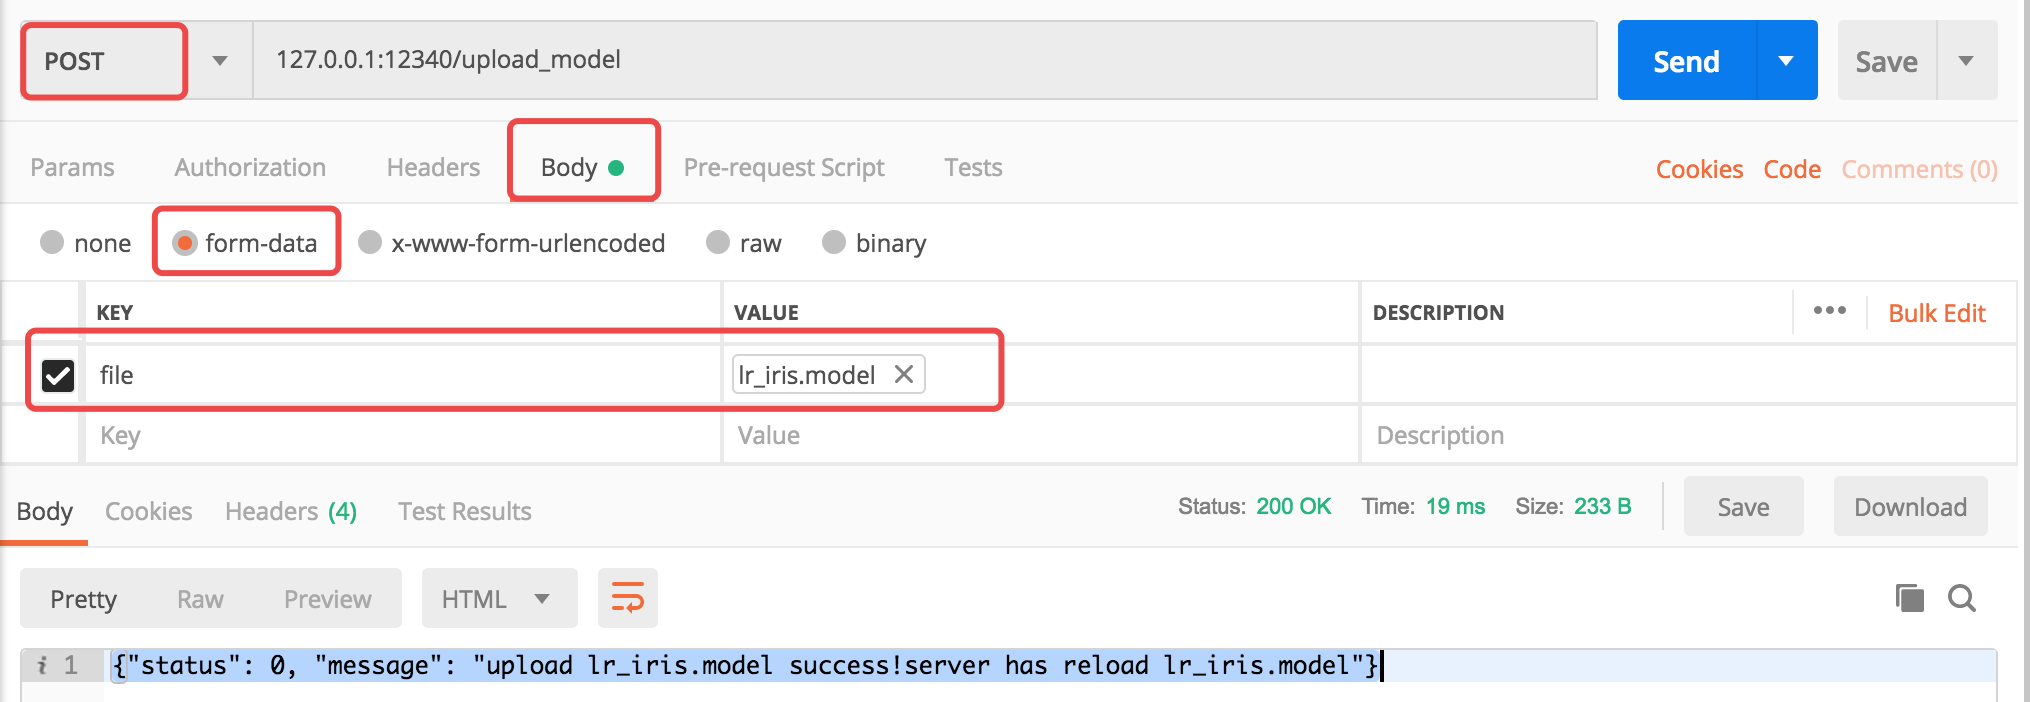
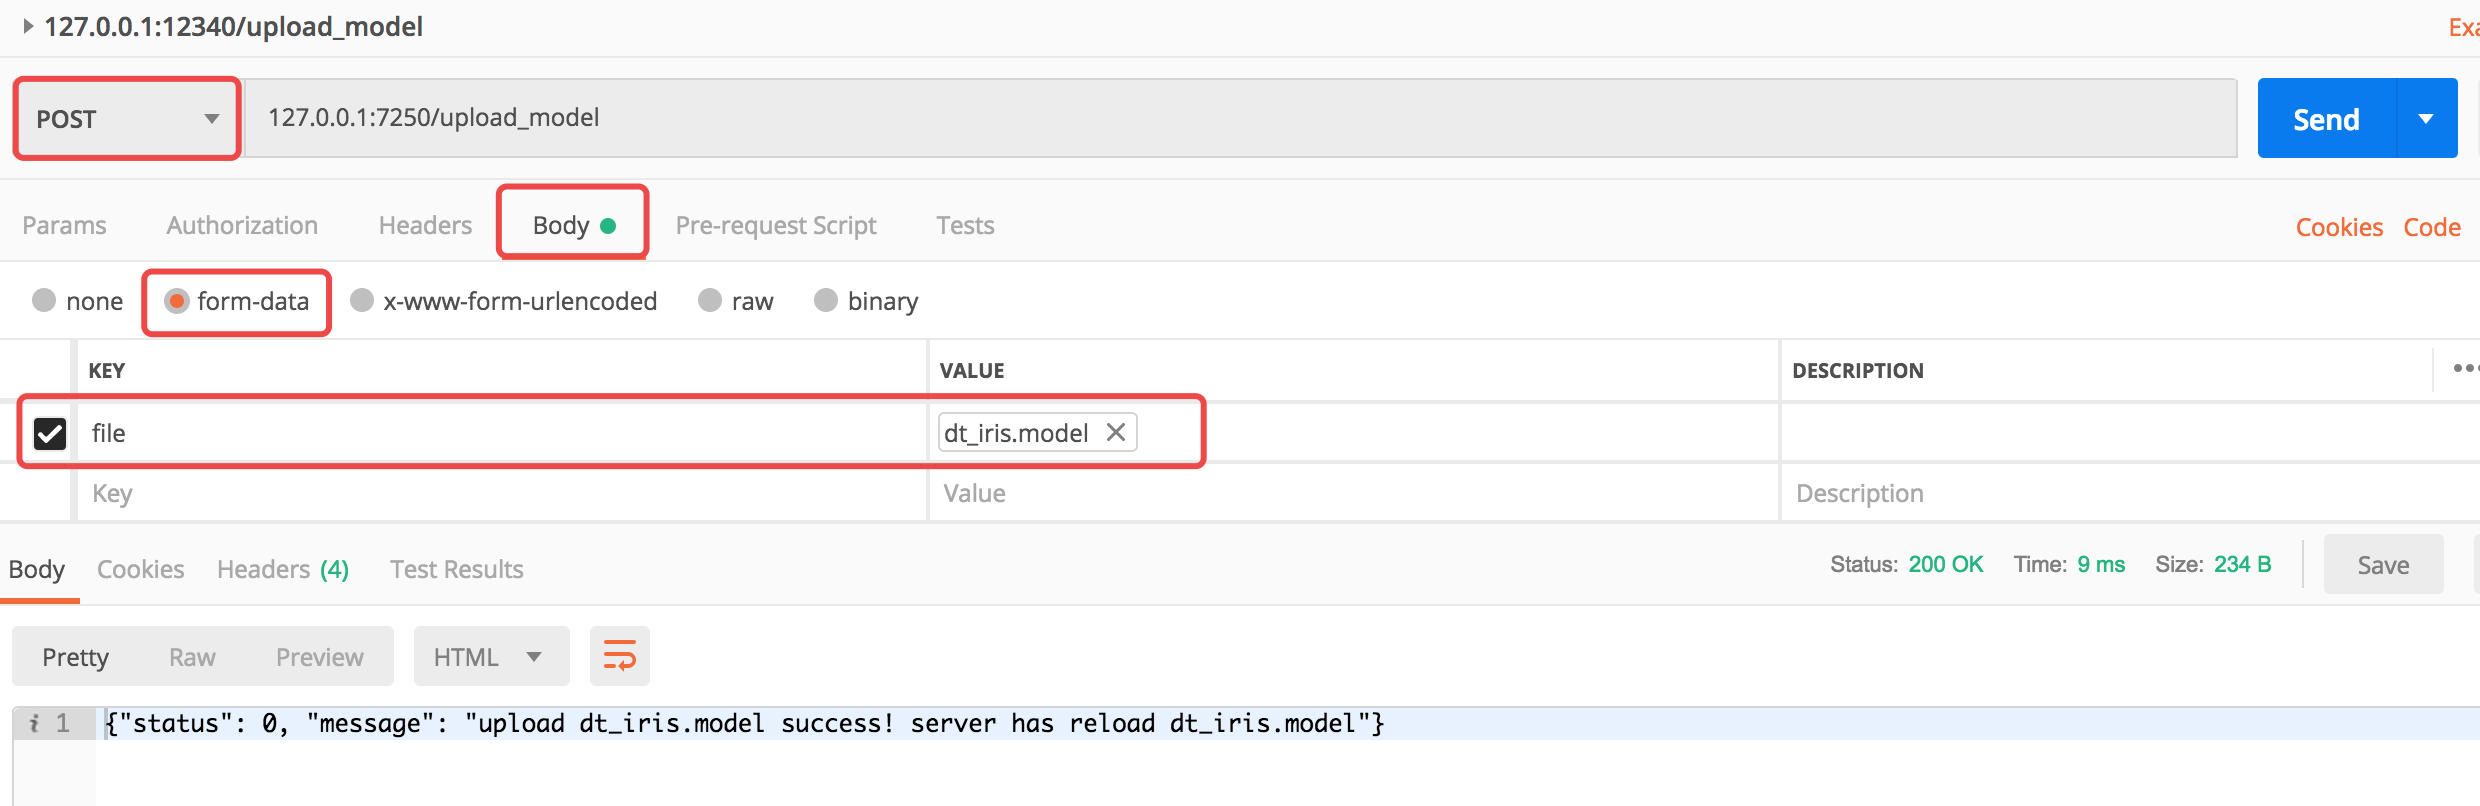
update readme.md

diff --git a/README.md b/README.md
@@ -111,7 +111,7 @@ db=0
 ### 4.1 /description
 GET请求：
 ```
-127.0.0.1:12340/description
+127.0.0.1:7250/description
 ```
 说明：返回restful API说明
 
@@ -123,7 +123,7 @@ GET请求：
 ### 4.2 /compute
 GET请求：
 ```
-127.0.0.1:12340/compute?a=1&b=2&ctype=1
+127.0.0.1:7250/compute?a=1&b=2&ctype=1
 ```
 
 说明：加减乘除操作，输入三个参数a、b、ctype。
@@ -141,7 +141,7 @@ GET请求：
 ### 4.3 /iris/lr_predict
 GET请求：
 ```
-127.0.0.1:12340/iris/lr_predict
+127.0.0.1:7250/iris/lr_predict
 ```
 
 说明：基于逻辑回归训练的模型，有4个参数，且默认为：
@@ -161,7 +161,7 @@ GET请求：
 ### 4.4 /iris/dt_predict
 GET请求：
 ```
-127.0.0.1:12340/iris/dt_predict
+127.0.0.1:7250/iris/dt_predict
 ```
 说明：基于决策树训练的模型，有4个参数，且默认为：
 ```
@@ -179,7 +179,7 @@ GET请求：
 ### 4.5 /dbtest/train_data
 GET请求：
 ```
-127.0.0.1:12340/dbtest/train_data
+127.0.0.1:7250/dbtest/train_data
 ```
 说明：mysql 建表和写入示例，redis写入示例。
 
@@ -190,7 +190,7 @@ GET请求：
 ### 4.6 /dbtest/predict_data
 GET请求：
 ```
-127.0.0.1:12340/dbtest/predict_data
+127.0.0.1:7250/dbtest/predict_data
 ```
 说明：redis 读取示例。有2个参数，且默认参数为：
 ```
@@ -205,7 +205,7 @@ GET请求：
 ### 4.7 /reload_model
 GET请求：
 ```
-127.0.0.1:12340/reload_model
+127.0.0.1:7250/reload_model
 ```
 说明：加载model文件夹下，全部/指定的模型文件。有一个参数，且默认为：
 ```
@@ -225,7 +225,7 @@ GET请求：
 ### 4.8 /upload_model
 POST请求：
 ```
-127.0.0.1:12340/upload_model
+127.0.0.1:7250/upload_model
 ```
 
 说明：上传模型文件，到model文件夹下。并且把上传的模型更新到内存。
